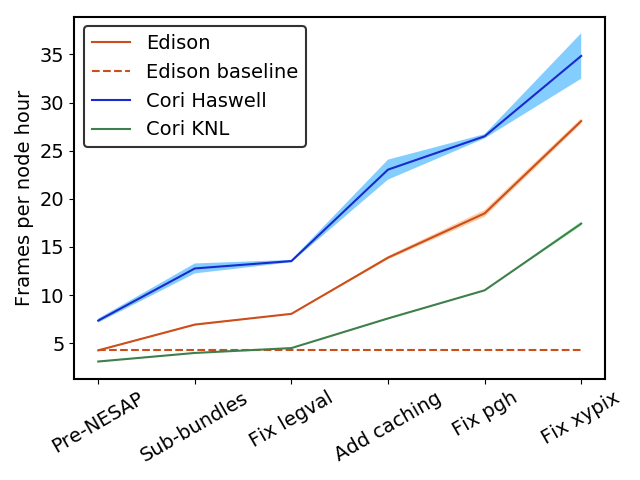
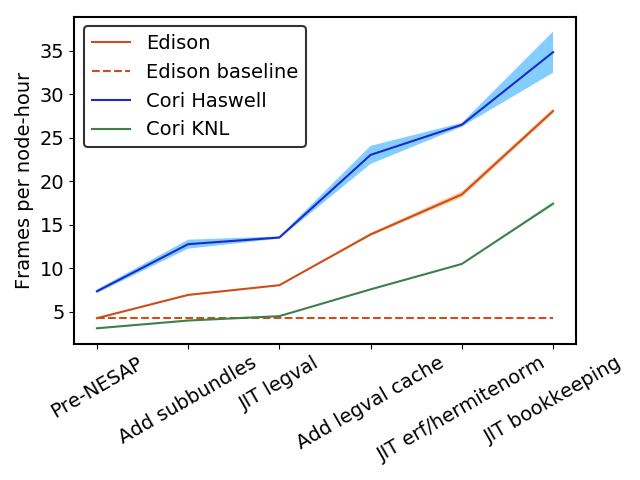
fix figures, captions, and other minor things

diff --git a/papers/laurie_stephey/stephey_thomas_bailey.rst b/papers/laurie_stephey/stephey_thomas_bailey.rst
@@ -75,7 +75,7 @@ shown in Figure :ref:`kittpeak`.
 .. figure:: figures/desi_kitt_peak.png
 
    A photograph of the Mayall telescope (large dome in the center of the
-   image), where the DESI instrument has been installed, in Kitt Peak, Arizona.
+   image), where the DESI instrument has been installed, on Kitt Peak, Arizona.
    :label:`kittpeak`
 
 In fall 2019 DESI will begin sending batches of CCD images nightly to the
@@ -152,11 +152,11 @@ In what follows we will present a case study that describes how a Python image
 processing pipeline was optimized *without rewriting the code in another
 language like C* for increased throughput of 5-7x on a high-performance system.
 We will describe our workflow of using profiling tools to find candidate
-kernels for optimization, we will describe how we used just in time compiling
+kernels for optimization and we will describe how we used just in time compiling
 to speed up these kernels. We will also describe our efforts to restructure the
 code to minimize the impact of calling expensive kernels. We will compare
 parallelization strategies using MPI and Dask, and finally, we will discuss a
-preliminary investigation for moving the DESI code to GPUs.
+preliminary study for moving the DESI code to GPUs.
 
 Profiling the Code
 ------------------
@@ -247,7 +247,7 @@ performance optimization work in this case study. However,
 because the DESI extraction code is an MPI code, these profiling tools do have
 some limitations. Both of these tools can be used to collect data for each MPI
 rank, but visualizing and using the information in a meaningful way is
-challenging, especially when there are 68 outputs from a KNL node, for example.
+challenging, especially when there are 68 outputs from a KNL chip, for example.
 
 .. figure:: figures/line_profiler_xypix.png
 
@@ -372,7 +372,7 @@ as to minimize crosstalk between individual fibers, which results in a sparse
 covariance matrix. We will also note that there was nothing magical about the
 number 6; anywhere from 2 to 10 subbundles provided a similar performance
 increase on both KNL and Haswell. While this strategy was successful on CPUs,
-we will revisit this strategy in the section "Does it make sense to run DESI on
+we will revisit this strategy in the section "Does it Make Sense to Run DESI Code on
 GPUs".
 
 Add Cached legval Values
@@ -445,7 +445,7 @@ major goal of the NESAP program was to reduce the DESI runtime on KNL to below
 the original Edison Ivy Bridge benchmark, which is indicated by the red dotted
 line. Once we implemented our legval cache fix, we achieved this goal.
 
-.. figure:: figures/single_node_benchmark.png
+.. figure:: figures/single_node.png
 
    The single-node speedup achieved on Intel Ivy Bridge, Haswell, and KNL architectures
    throughout the course of this study. :label:`singlenode`
@@ -473,7 +473,7 @@ specific throughput increase instead of the (more exciting but less meaningful)
 .. figure:: figures/frames_per_node_hour.png
 
    This figure shows the improvement over the course of this study in the DESI
-   spectral extraction throughput. :label:`framespernodehour`
+   spectral extraction specific throughput. :label:`framespernodehour`
 
 It is worth mentioning that using Numba allowed us to make notable improvements
 specifically on KNL, which was of course the main goal of this study. For
@@ -508,13 +508,13 @@ can still provide reasonable gains without a major time investment.
      \hline
      Add subbundles & Restructure & 1.55106 & 1.62882 & 1.73696 & 1.28741 \tabularnewline
      \hline
-     Fix legval & JIT compile & 1.11607 & 1.16106 & 1.06005 & 1.12709 \tabularnewline
+     JIT legval & JIT compile & 1.11607 & 1.16106 & 1.06005 & 1.12709 \tabularnewline
      \hline
-     Add caching & Restructure & 1.70416 & 1.72505 & 1.70197 & 1.68546 \tabularnewline
+     Add legval cache & Restructure & 1.70416 & 1.72505 & 1.70197 & 1.68546 \tabularnewline
      \hline
-     Fix pgh & JIT compile & 1.28906 & 1.33125 & 1.15036 & 1.38556 \tabularnewline
+     JIT erf/hermitenorm & JIT compile & 1.28906 & 1.33125 & 1.15036 & 1.38556 \tabularnewline
      \hline
-     Fix xypix & JIT compile & 1.49806 & 1.51875 & 1.31501 & 1.66042 \tabularnewline
+     JIT bookkeeping & JIT compile & 1.49806 & 1.51875 & 1.31501 & 1.66042 \tabularnewline
      \hline
      \end{longtable}
 
@@ -612,10 +612,11 @@ How best to support GPU offloading without having to fill the DESI code with
 distinct CPU and GPU blocks, and additionally avoid being tied to a particular
 vendor, is still an open question for us.
 
-.. figure:: figures/eigh.png
+.. figure:: figures/eigh_scan.png
 
    Data from performing an eigh matrix decomposition of various sizes on Edison
-   Ivy Bridge, Cori Haswell, Cori KNL, and Cori Volta. :label:`eigh`
+   Ivy Bridge, Cori Haswell, Cori KNL, and Cori Volta. We used CuPy to perform
+   eigh on the Volta GPU. :label:`eigh`
 
 Conclusions and Future Work
 ---------------------------
